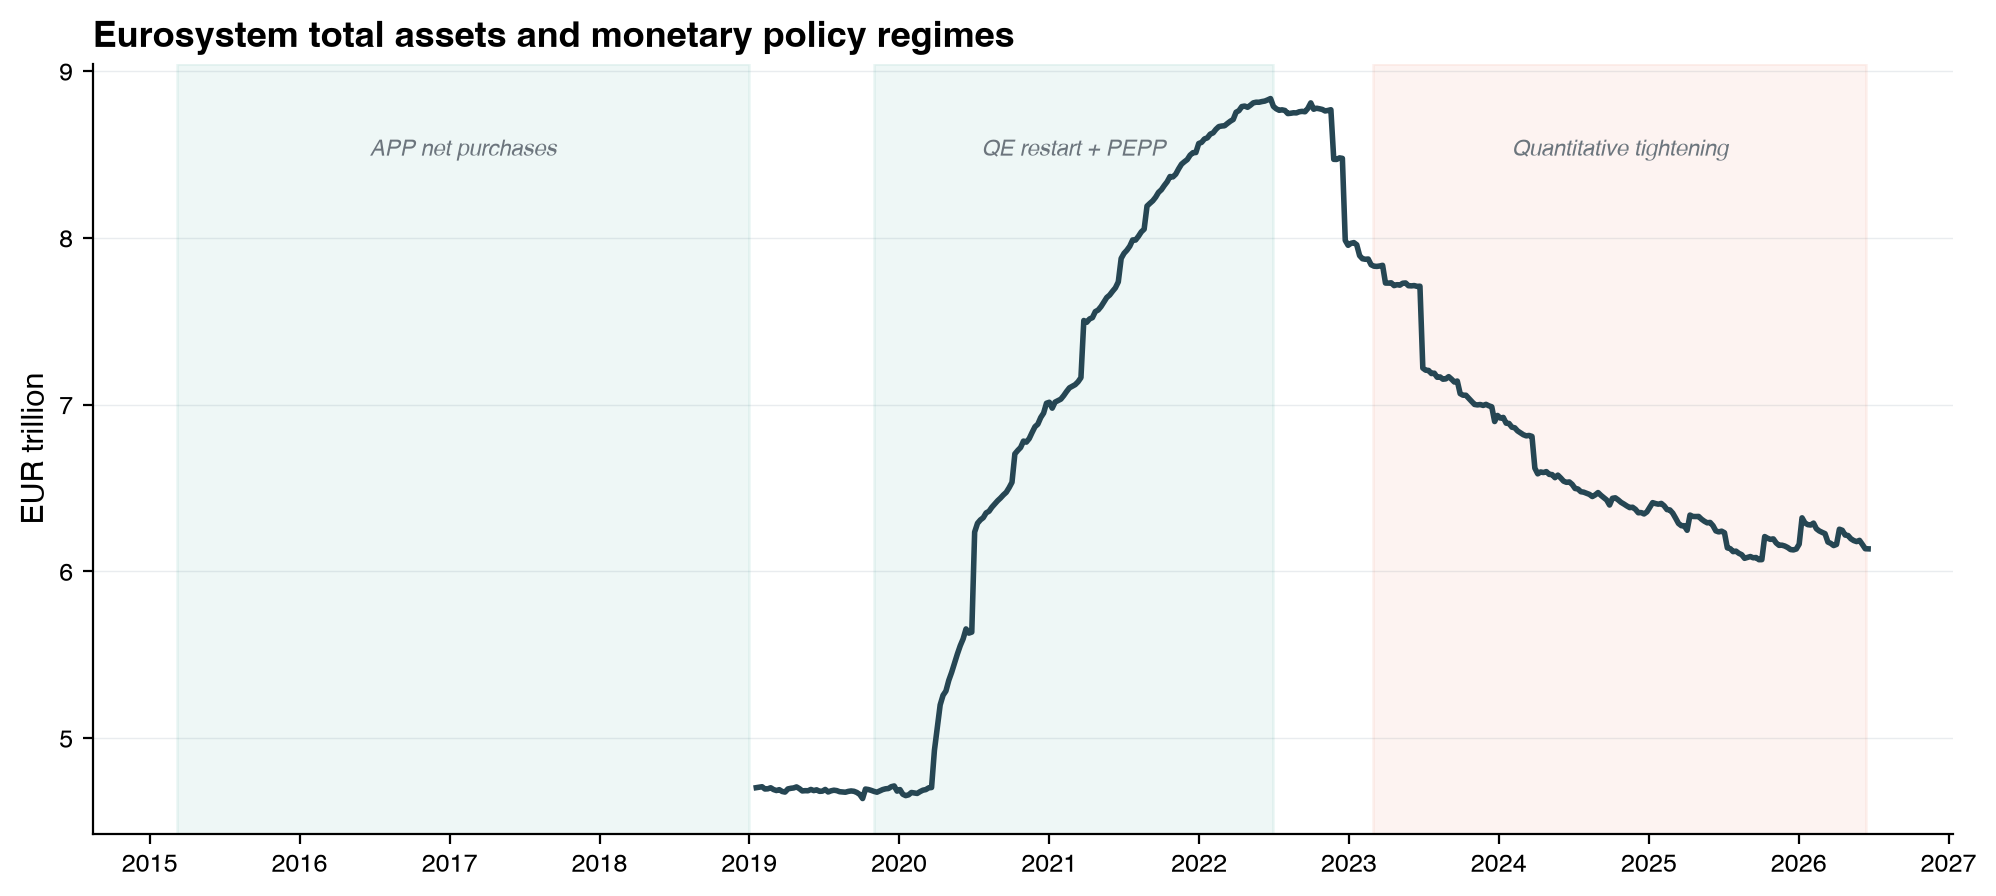
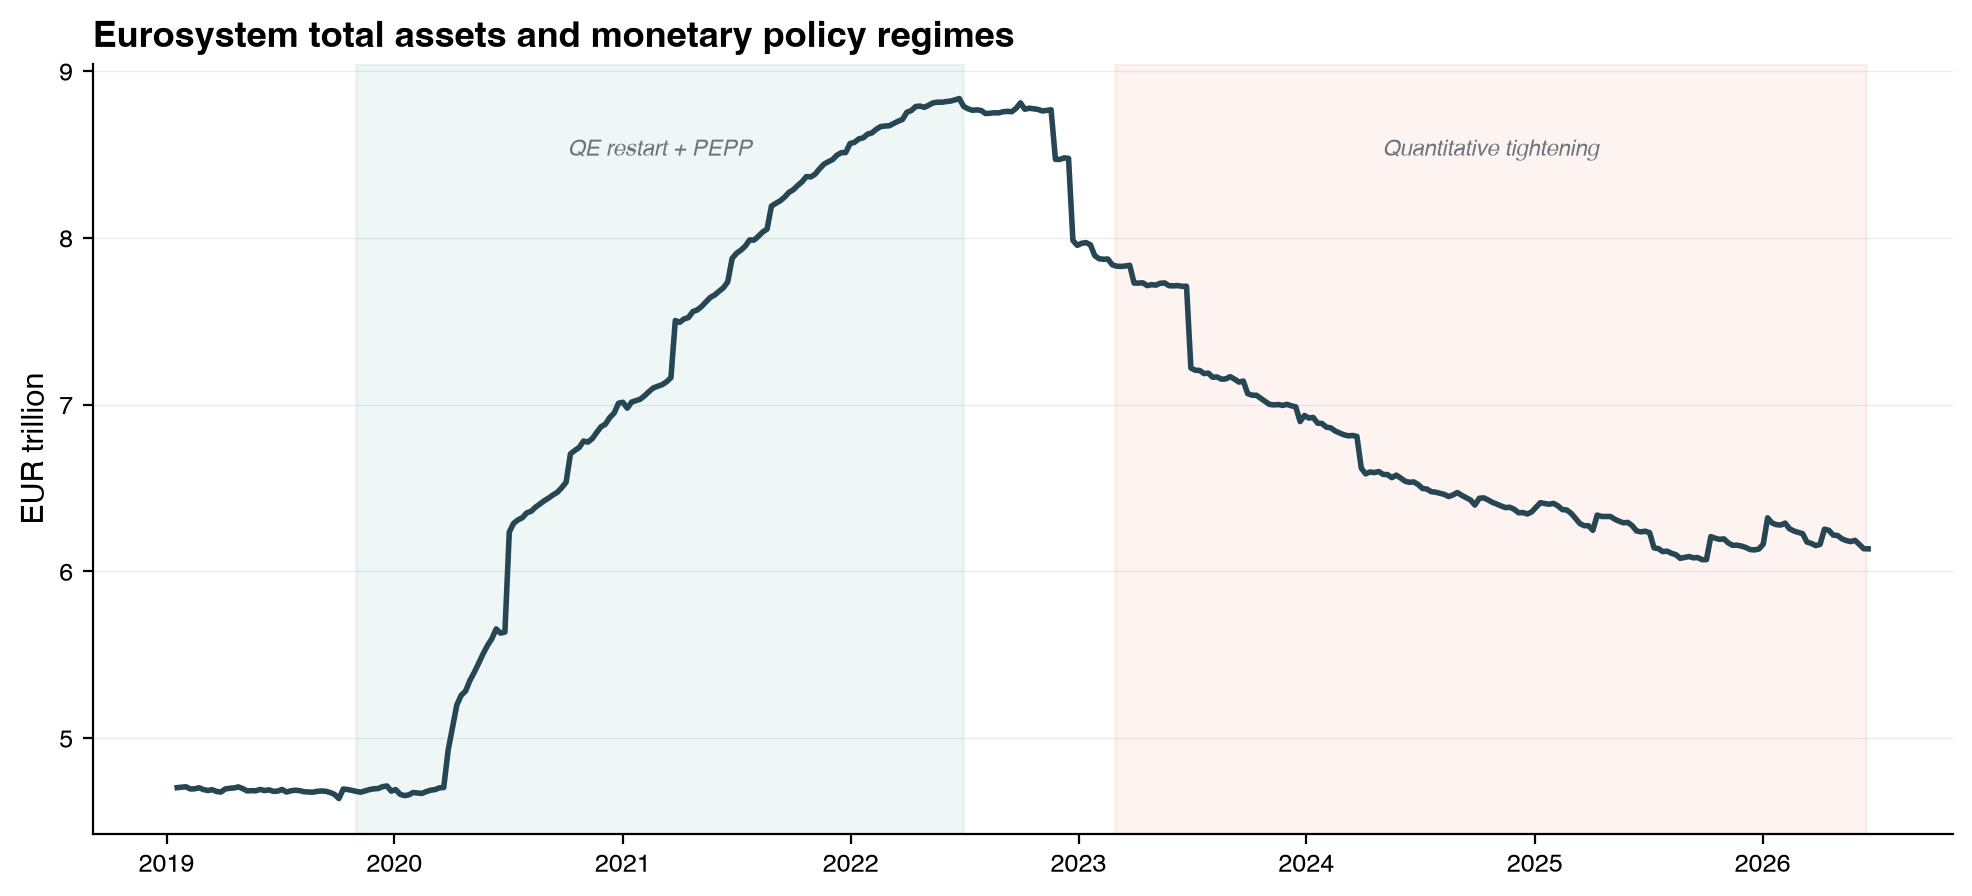
Remove references to 2015-2019 period (insufficient coverage)
Drop QE announced (2015) annotation from fig1 and APP net purchases
regime shading from fig6. Update README key findings accordingly.

diff --git a/visualize.py b/visualize.py
@@ -148,7 +148,6 @@ def plot_main_comparison(llm_df, sma_df, ecb_df, output_dir):
 
     # Key events
     events = [
-        ("2015-01-22", "QE\nannounced", 0.85),
         ("2019-09-12", "QE\nrestarted", 0.85),
         ("2020-03-18", "PEPP\nlaunched", 0.60),
         ("2022-07-01", "Net purchases\nended", -0.60),
@@ -334,7 +333,6 @@ def plot_ecb_bs_with_regimes(ecb_df, output_dir):
             color=COLORS["ecb_assets"], linewidth=2)
 
     regimes = [
-        ("2015-03-09", "2018-12-31", "APP net purchases", COLORS["increase"]),
         ("2019-11-01", "2022-06-30", "QE restart + PEPP", COLORS["increase"]),
         ("2023-03-01", "2026-06-15", "Quantitative tightening", COLORS["decrease"]),
     ]

diff --git a/README.md b/README.md
@@ -14,8 +14,7 @@ which ranges from -1 (all articles signal contraction) to +1 (all articles signa
 ## Key Findings
 
 The LLM balance statistic correctly captures the major ECB policy regimes:
-- **2015-2019**: Positive F_t during APP net purchases (quantitative easing)
-- **2019-2020**: Strong positive signal when ECB restarted QE and launched PEPP
+- **2019-2020**: Strong positive F_t when ECB restarted QE and launched PEPP
 - **2022 onward**: Sharp transition to negative F_t when ECB ended net purchases and began quantitative tightening
 
 Over 21 overlapping months with SMA data, the Pearson correlation between F_t and the SMA expected quarter-over-quarter change is r = -0.31 (p = 0.18). The negative sign reflects that during the overlap period (2022-2025) both measures agree on the direction (decrease), but more negative F_t values correspond to *faster* expected declines in the SMA.